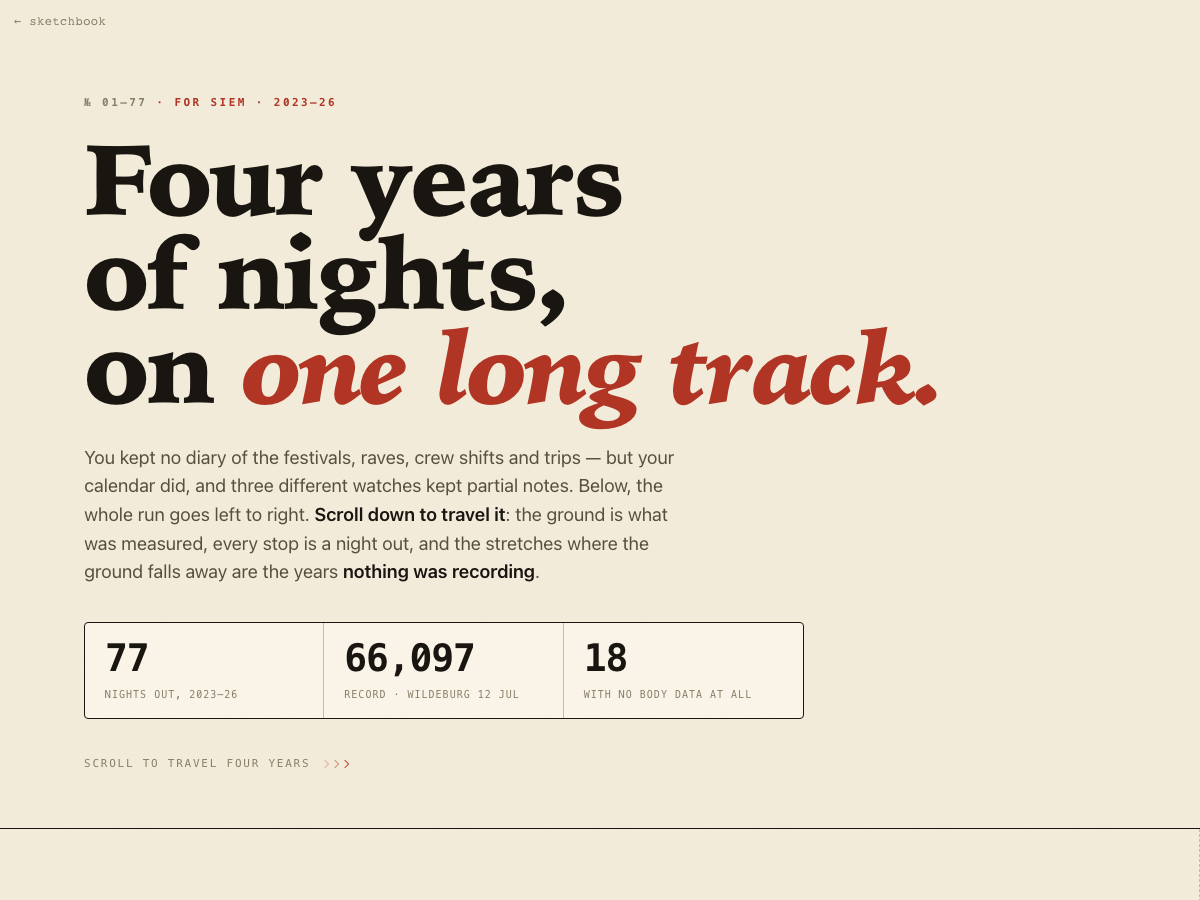
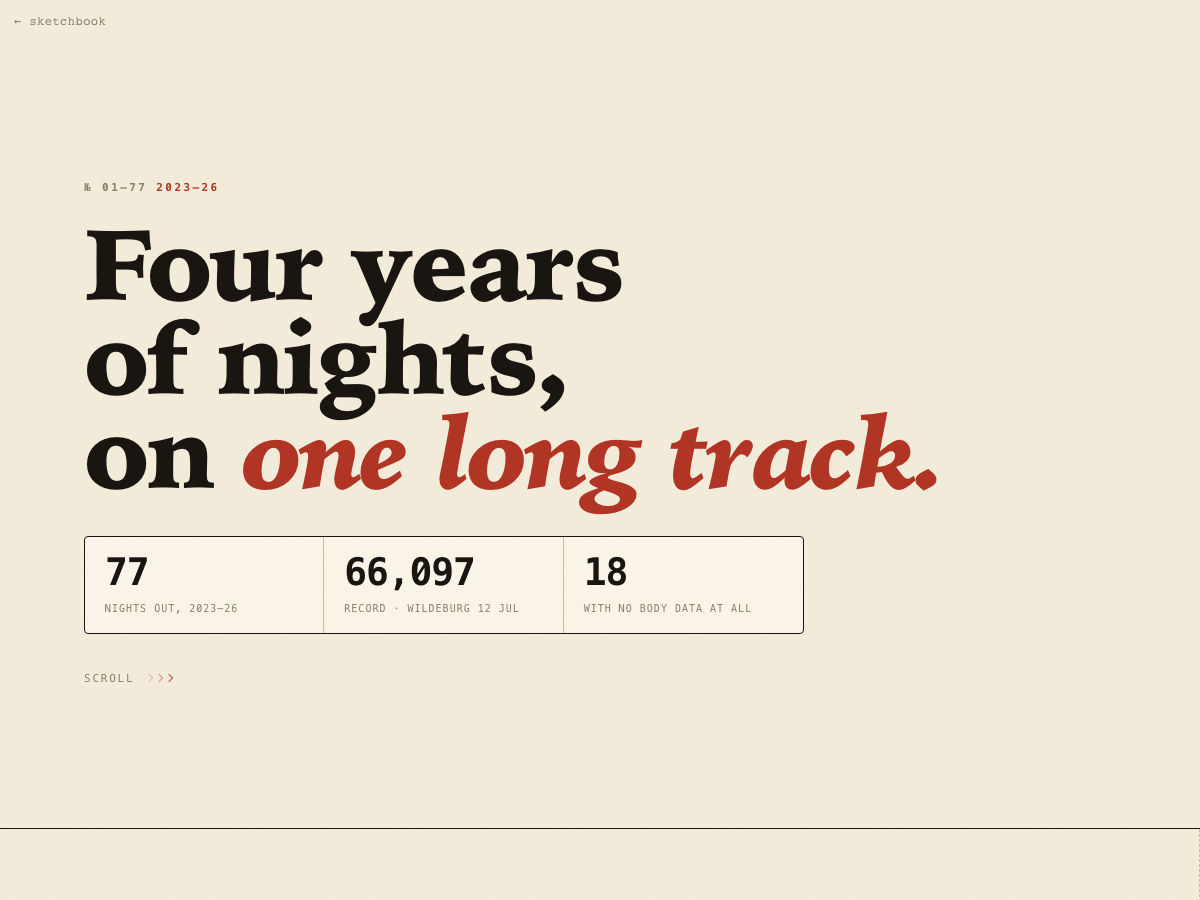
refactor(festival-season): cut the narration, keep the ride and the charts
The page had grown a layer of writing around the data that the data did
not need: an Act I-VI framing, a portentous headline and a second-person
paragraph on each of seven scenes, a hero standfirst, an italic signoff,
and three footer essays on provenance and method.

Each scene now carries a single mono label — date range and what the axis
is — and nothing else. The scroll rail loses its Act names for plain ones
(walking, unrecorded, silences, steps, cost, worst four, recovery).

Kept, because it is not decoration: the horizontal scroll itself, every
chart, the category legends, the axis captions that explain how to read a
plot, the three hero counters, the resolve figures, the full ledger, the
device ladder, and the Definitions line without which the table's columns
cannot be read.

Also drops the CSS rules left dead by the cut.

diff --git a/sketches/2026-07-festival-season/index.html b/sketches/2026-07-festival-season/index.html
@@ -58,9 +58,6 @@ body{margin:0;background:var(--paper);color:var(--ink);font-family:var(--sans);-
 .world{display:flex;height:100vh;width:max-content;will-change:transform}
 .scene{flex:none;width:100vw;height:100vh;position:relative;display:flex;flex-direction:column;justify-content:center;padding:64px clamp(24px,5vw,80px) 88px;border-right:1px dashed var(--line-2);overflow:hidden}
 .scene-head{max-width:640px;margin-bottom:26px}
-.scene-head h2{font-family:var(--serif);font-size:clamp(26px,3.4vw,46px);margin:12px 0 0;font-weight:760;letter-spacing:-.015em;line-height:1.02;text-wrap:balance}
-.scene-head p{color:var(--ink-2);font-size:15px;margin:12px 0 0;max-width:56ch}
-.scene-head p b{color:var(--ink)}
 
 /* progress rail */
 .rail{position:fixed;left:0;right:0;bottom:0;z-index:40;display:none;height:40px;background:var(--panel);border-top:1.5px solid var(--ink);align-items:center;padding:0 clamp(18px,4vw,44px);gap:0;font-family:var(--mono);font-size:10px;letter-spacing:.1em;text-transform:uppercase}
@@ -150,7 +147,6 @@ body{margin:0;background:var(--paper);color:var(--ink);font-family:var(--sans);-
 section.blk{padding:clamp(56px,8vw,96px) 0;position:relative}
 section.blk::before{content:"";position:absolute;top:0;left:clamp(18px,4vw,44px);right:clamp(18px,4vw,44px);height:1px;background:var(--line-2)}
 .blk-h{margin-bottom:30px}.blk-h .kick{margin-bottom:14px}
-.blk-h h2{font-family:var(--serif);font-size:clamp(26px,4vw,42px);margin:0;font-weight:700;letter-spacing:-.01em;text-wrap:balance}
 .blk-h .sub{color:var(--ink-2);font-size:15px;margin:10px 0 0}
 .tablewrap{overflow-x:auto;border:1.5px solid var(--ink);border-radius:5px;background:var(--panel)}
 table{border-collapse:collapse;width:100%;font-size:12.5px;min-width:660px;font-family:var(--mono)}
@@ -204,7 +200,6 @@ td.num{text-align:right;font-variant-numeric:tabular-nums;white-space:nowrap}
 footer{padding:52px 0 96px;color:var(--muted);font-size:12px;line-height:1.7;position:relative}
 footer::before{content:"";position:absolute;top:0;left:clamp(18px,4vw,44px);right:clamp(18px,4vw,44px);height:1px;background:var(--line-2)}
 footer b{color:var(--ink-2);font-weight:600}footer code{font-family:var(--mono);font-size:11px;color:var(--ink-2)}
-.signoff{font-family:var(--serif);font-style:italic;font-size:16px;color:var(--ink);margin-bottom:22px}
 </style>
 </head>
 <body>
@@ -212,25 +207,22 @@ footer b{color:var(--ink-2);font-weight:600}footer code{font-family:var(--mono);
 <div class="grain"></div>
 
 <header class="hero"><div class="wrap">
-  <div class="kick reveal in"><span class="no">№ 01–77</span> · for Siem · 2023–26</div>
+  <div class="kick reveal in"><span class="no">№ 01–77</span> 2023–26</div>
   <h1 class="reveal in">Four years of nights,<br>on <em>one long track.</em></h1>
-  <p class="dek reveal in">You kept no diary of the festivals, raves, crew shifts and trips — but your calendar did, and three different watches kept partial notes. Below, the whole run goes left to right. <b>Scroll down to travel it</b>: the ground is what was measured, every stop is a night out, and the stretches where the ground falls away are the years <b>nothing was recording</b>.</p>
   <div class="readout reveal in">
     <div class="cell"><div class="v"><span class="num" data-count="77">0</span></div><div class="k">nights out, 2023–26</div></div>
     <div class="cell"><div class="v"><span class="num" data-count="66097">0</span></div><div class="k">record · Wildeburg 12 Jul</div></div>
     <div class="cell"><div class="v"><span class="num" data-count="18">0</span></div><div class="k">with no body data at all</div></div>
   </div>
-  <div class="cue reveal in">scroll to travel four years<span class="ar"><b></b><b></b><b></b></span></div>
+  <div class="cue reveal in">scroll<span class="ar"><b></b><b></b><b></b></span></div>
 </div></header>
 
 <!-- THE RIDE -->
 <div class="track" id="track"><div class="pin" id="pin"><div class="world" id="world">
 
   <!-- Act I: the years you only have the fact -->
-  <section class="scene" data-scene="0" data-act="Act I · the fact">
-    <div class="scene-head"><div class="kick"><span class="no">Act I</span> 2022 — 2024</div>
-      <h2>For two years, all you have is that you went.</h2>
-      <p>Back here there was no Garmin — three phones and two Galaxy Watches, each keeping its own notes and taking them with it when it left. The step counts went with them. What survived is <b>walking</b>, so the ground is kilometres, and the nights are the spikes.</p></div>
+  <section class="scene" data-scene="0" data-act="walking">
+    <div class="scene-head"><div class="kick">2022–2024 · km walked per day</div></div>
     <div class="terr" id="terrpre"></div>
     <div class="terrleg">
       <span><i style="background:var(--festival)"></i>Festival</span><span><i style="background:var(--crew)"></i>Crew</span>
@@ -239,27 +231,21 @@ footer b{color:var(--ink-2);font-weight:600}footer code{font-family:var(--mono);
   </section>
 
   <!-- Act I cont.: the dark -->
-  <section class="scene" data-scene="1" data-act="Act I · the dark">
-    <div class="scene-head"><div class="kick"><span class="no">Act I</span> the dark</div>
-      <h2>And on the biggest days, not even that.</h2>
-      <p>The watch logged heart rate on most ordinary days of those years. On the days you walked furthest it logged <b>nothing</b> — in a locker, or flat, or still at home. Even where an instrument existed, it went quiet exactly where the story was.</p></div>
+  <section class="scene" data-scene="1" data-act="unrecorded">
+    <div class="scene-head"><div class="kick">2022–2024 · days over 10 km</div></div>
     <div class="dark" id="dark"></div>
     <div class="scatcap">each bar a day over 10 km · filled = heart rate recorded · hollow = nothing</div>
   </section>
 
   <!-- Act II: the silence -->
-  <section class="scene" data-scene="2" data-act="Act II · the silences">
-    <div class="scene-head"><div class="kick"><span class="no">Act II</span> Dec ’23 — Apr ’25</div>
-      <h2>Then the nights nothing kept at all.</h2>
-      <p>Two silences: the A54 logged nothing until <b>Apr ’24</b>, and after <b>Aug ’24</b> the Samsung watch had stopped while the Garmin hadn’t started — nine months with no instrument at all. A few more fall inside coverage on days the watch simply recorded nothing. These happened; the tickets and rosters are in your inbox. <b>Not one left a mark anything kept.</b></p></div>
+  <section class="scene" data-scene="2" data-act="silences">
+    <div class="scene-head"><div class="kick">Dec ’23 — Apr ’25 · nights with no instrument</div></div>
     <div class="silence" id="silence"></div>
   </section>
 
   <!-- Act III: the Garmin ground -->
-  <section class="scene" data-scene="3" data-act="Act III · the ground">
-    <div class="scene-head"><div class="kick"><span class="no">Act III</span> from May ’25</div>
-      <h2>Then it could finally measure.</h2>
-      <p>A watch that stayed on. Most days: ~11k steps, and the peaks are the nights. From here on the ground is <b>steps</b> again — and for the first time each night has a price attached. Tap a peak to open its stub.</p></div>
+  <section class="scene" data-scene="3" data-act="steps">
+    <div class="scene-head"><div class="kick">from May ’25 · steps per day</div></div>
     <div class="terr" id="terr"></div>
     <div class="terrleg">
       <span><i style="background:var(--festival)"></i>Festival</span><span><i style="background:var(--crew)"></i>Crew</span>
@@ -268,27 +254,21 @@ footer b{color:var(--ink-2);font-weight:600}footer code{font-family:var(--mono);
   </section>
 
   <!-- Act IV: the cost -->
-  <section class="scene" data-scene="4" data-act="Act IV · the cost">
-    <div class="scene-head"><div class="kick"><span class="no">Act IV</span> the cost</div>
-      <h2>It isn't the steps that wreck you.</h2>
-      <p>Every night placed by how far you walked <b>and</b> how far your HRV fell the morning after. The small dots — the low-sleep nights — sink to the bottom. <b>Sleep is the tell.</b></p></div>
+  <section class="scene" data-scene="4" data-act="cost">
+    <div class="scene-head"><div class="kick">every measured night · distance against HRV drop</div></div>
     <div class="scat" id="scat"></div>
     <div class="scatcap">↓ down-right = moved a lot AND crashed · dot size = how little you slept</div>
   </section>
 
   <!-- Act V: gauges -->
-  <section class="scene" data-scene="5" data-act="Act V · the worst">
-    <div class="scene-head"><div class="kick"><span class="no">Act V</span> the four that cost most</div>
-      <h2>The nights your body billed you for.</h2>
-      <p>Three dials each: how far HRV fell, how little you slept, how empty the battery ran.</p></div>
+  <section class="scene" data-scene="5" data-act="worst four">
+    <div class="scene-head"><div class="kick">the four costliest nights · HRV drop, sleep, body battery</div></div>
     <div class="gauges" id="gauges"></div>
   </section>
 
   <!-- Act VI: recovery + resolution -->
-  <section class="scene" data-scene="6" data-act="Act VI · the recovery">
-    <div class="scene-head"><div class="kick"><span class="no">Act VI</span> the recovery</div>
-      <h2>But you always came back.</h2>
-      <p>Same four nights, the days after. The line dips, then climbs into your normal range — the grey band. <b>Not one knocked you off baseline for good.</b></p></div>
+  <section class="scene" data-scene="6" data-act="recovery">
+    <div class="scene-head"><div class="kick">the same four nights · HRV over the days after</div></div>
     <div class="rcgrid" id="rcgrid"></div>
     <div class="resolve" id="resolve"></div>
   </section>
@@ -297,7 +277,7 @@ footer b{color:var(--ink-2);font-weight:600}footer code{font-family:var(--mono);
 
 <!-- LEDGER -->
 <section class="blk"><div class="wrap">
-  <div class="blk-h reveal"><div class="kick"><span class="no">Coda</span> the record</div><h2>Every entry</h2><p class="sub" id="tblsub"></p></div>
+  <div class="blk-h reveal"><div class="kick">every entry</div><p class="sub" id="tblsub"></p></div>
   <div class="tablewrap reveal"><table>
     <thead><tr><th data-sort="d">Date</th><th data-sort="name">Event</th><th>Type</th><th>Measured</th>
       <th class="num" data-sort="peak">Peak</th><th class="num" data-sort="dRHR">ΔRHR</th>
@@ -306,11 +286,7 @@ footer b{color:var(--ink-2);font-weight:600}footer code{font-family:var(--mono);
 </div></section>
 
 <footer><div class="wrap">
-  <p class="signoff reveal">Four years, seventy-seven nights, three watches and two long silences — and Liquicity every single summer.</p>
-  <p><b>The instruments.</b> Daily steps are stored per device and don’t travel, so every phone migration reset them — which is why the early years read as walks and not as steps, and why 2018 to 2022 is simply gone.</p>
   <div class="ladder reveal" id="ladder"></div>
-  <p><b>How this was built.</b> <b>The events come from Google Calendar and Gmail, not from the body data.</b> The earlier version of this page found its nights by detecting step-spikes ≥ 18k, which quietly drops anything that doesn't involve walking far — club nights, concerts, indoor festivals. Reading the calendar directly turned up ~48 events in 2023–25 that method never saw, and six inside its own window (Op de Ring, Intercell VTSS, Soenda Indoor Nov ’25, Sef, Koningsdag ’25, Dotan).</p>
-  <p><b>What was measuring, when.</b> <b>2022-12 → 2024-08 (Acts I):</b> a Samsung Health export — no daily step totals survive the phone migrations, so the ground there is walk+run distance from logged sessions, and heart rate only in two bursts. <b>2024-08 → 2025-05 (Act II):</b> nothing at all. <b>2025-05-22 → now (Acts III–VI):</b> GarminDB on the homelab — <code>daily_summary</code>, <code>resting_hr</code>, <code>hrv</code> (overnight RMSSD + baseline band), <code>sleep</code> stages, body battery (HRV from 10 Jun 2025). The two eras use different units and the page does not convert between them; the one place they overlap, Wildeburg 2026, reads 23.4 km/day on the phone against 46,269 / 54,676 steps on the Garmin.</p>
   <p><b>Definitions.</b> <b>ΔRHR</b> vs trailing-28-day median · <b>HRV a.m.</b> = lowest overnight HRV the mornings after vs baseline · <b>Recover</b> = nights until HRV re-enters your baseline band. Trips (gray) are real spikes, not festivals. Still guessed: Lofi Patio, Pride Utrecht, Blackout ’23 and Liquicity family day — the last two are hedged in the calendar itself. Five days over 10 km have no name at all (5 Aug ’23, 14 Oct ’23, 9 Dec ’23, 28 Apr ’24, 31 Jan ’26).</p>
 </div></footer>
 
@@ -486,9 +462,9 @@ function hrvCurveSVG(e,W,H,cls){
   const med=rec.length%2?rec[(rec.length-1)/2]:Math.round((rec[rec.length/2-1]+rec[rec.length/2])/2*10)/10;
   const longest=Math.max(...rec),le=EV.find(e=>e.recDays===longest);
   document.getElementById('resolve').innerHTML=
-   `<div class="rz"><div class="rzv">${med}</div><div class="rzk">median nights back to baseline — the usual price of a night out</div></div>
+   `<div class="rz"><div class="rzv">${med}</div><div class="rzk">median nights back to baseline</div></div>
     <div class="rz"><div class="rzv">${rec.length}<span class="rzu">/${withH}</span></div><div class="rzk">measured nights that climbed back within a week</div></div>
-    <div class="rz"><div class="rzv">${longest}</div><div class="rzk">the longest it ever took — after ${le.n}, then fine</div></div>`;
+    <div class="rz"><div class="rzv">${longest}</div><div class="rzk">longest, after ${le.n}</div></div>`;
 })();
 
 /* ---------- the horizontal pan ---------- */
